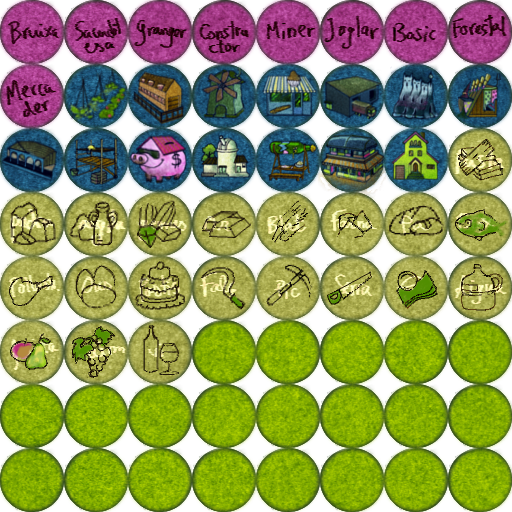
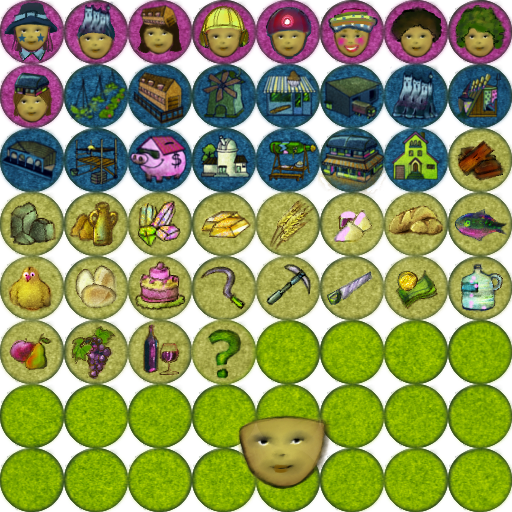
hud + nous pngs

diff --git a/Project/src/cat/atridas87/ld27/Renderer.java b/Project/src/cat/atridas87/ld27/Renderer.java
@@ -10,6 +10,7 @@ import javax.imageio.ImageIO;
 import org.lwjgl.BufferUtils;
 import org.lwjgl.opengl.GL11;
 import org.lwjgl.opengl.GL20;
+import org.newdawn.slick.Color;
 import org.newdawn.slick.Font;
 import org.newdawn.slick.TrueTypeFont;
 import org.newdawn.slick.opengl.Texture;
@@ -22,13 +23,10 @@ import static cat.atridas87.ld27.LD27.*;
 
 public class Renderer {
 
-	private Texture caselles, graella, recursos;
+	private Texture caselles, graella, recursos, hud;
 	private ShaderManager shaderManager;
 
-	private FloatBuffer casellaPositionBuffer, recursosPositionBuffer,
-			texCoordBuffer;
-	private FloatBuffer casellaSmallPositionBuffer,
-			recursosSmallPositionBuffer;
+	private FloatBuffer positionBuffer;
 
 	private Font font, fontTimer;
 
@@ -54,30 +52,23 @@ public class Renderer {
 
 		recursos = BufferedImageUtil.getTexture("recursos", bi);
 
+		url = ResourceLoader.getResource("resources/hud.png");
+		bi = ImageIO.read(url);
+
+		hud = BufferedImageUtil.getTexture("recursos", bi);
+
 		shaderManager = new ShaderManager();
 		shaderManager.setCurrentProgram(ShaderManager.ProgramType.TEXTURED);
 		shaderManager.setTexturePosition(0);
 
-		casellaPositionBuffer = BufferUtils.createFloatBuffer(4 * 2);
-		recursosPositionBuffer = BufferUtils.createFloatBuffer(4 * 2);
-		casellaSmallPositionBuffer = BufferUtils.createFloatBuffer(4 * 2);
-		recursosSmallPositionBuffer = BufferUtils.createFloatBuffer(4 * 2);
-		texCoordBuffer = BufferUtils.createFloatBuffer(4 * 2);
-		casellaPositionBuffer
-				.put(new float[] { 0, 0, 170, 0, 170, 170, 0, 170 });
-		texCoordBuffer.put(new float[] { 0, 1, 1, 1, 1, 0, 0, 0 });
-		recursosPositionBuffer.put(new float[] { 0, 0, 64, 0, 64, 64, 0, 64 });
-
-		casellaSmallPositionBuffer
-				.put(new float[] { 0, 0, 85, 0, 85, 85, 0, 85 });
-		recursosSmallPositionBuffer.put(new float[] { 0, 0, 32, 0, 32, 32, 0, 32 });
+		positionBuffer = BufferUtils.createFloatBuffer(4 * 2);
+		positionBuffer.put(new float[] { 0, 0, 1, 0, 1, 1, 0, 1 });
 
 		GL20.glEnableVertexAttribArray(ShaderManager.POSITION_ATTRIBUTE);
-		GL20.glEnableVertexAttribArray(ShaderManager.TEX_COORD_ATTRIBUTE);
 
-		texCoordBuffer.rewind();
-		GL20.glVertexAttribPointer(ShaderManager.TEX_COORD_ATTRIBUTE, 2, false,
-				0, texCoordBuffer);
+		positionBuffer.rewind();
+		GL20.glVertexAttribPointer(ShaderManager.POSITION_ATTRIBUTE, 2, false,
+				0, positionBuffer);
 	}
 
 	void render(int x, int y, int width, int height, TerrenyDeJoc terrenyDeJoc,
@@ -100,11 +91,6 @@ public class Renderer {
 		int ultimaCasellesX = (int) ((x + width) / TAMANY_CASELLA) + 1;
 		int ultimaCasellesY = (int) ((y + height) / TAMANY_CASELLA) + 1;
 
-		casellaPositionBuffer.rewind();
-		recursosPositionBuffer.rewind();
-		GL20.glVertexAttribPointer(ShaderManager.POSITION_ATTRIBUTE, 2, false,
-				0, casellaPositionBuffer);
-
 		for (int pass = 0; pass < 3; pass++) {
 			switch (pass) {
 			case 0:
@@ -120,8 +106,6 @@ public class Renderer {
 
 			case 2:
 				recursos.bind();
-				GL20.glVertexAttribPointer(ShaderManager.POSITION_ATTRIBUTE, 2,
-						false, 0, recursosPositionBuffer);
 
 				break;
 			}
@@ -146,7 +130,7 @@ public class Renderer {
 					int indexY;
 					switch (pass) {
 					case 0:
-						shaderManager.setPosition(cuadreX, cuadreY);
+						shaderManager.setPosition(cuadreX, cuadreY, 170, 170);
 						casella = terrenyDeJoc.caselles[i][j];
 						indexX = casella.type.spriteX;
 						indexY = casella.type.spriteY;
@@ -157,7 +141,7 @@ public class Renderer {
 						GL11.glDrawArrays(GL11.GL_QUADS, 0, 4);
 						break;
 					case 1:
-						shaderManager.setPosition(cuadreX, cuadreY);
+						shaderManager.setPosition(cuadreX, cuadreY, 170, 170);
 
 						GL11.glDrawArrays(GL11.GL_QUADS, 0, 4);
 						break;
@@ -193,7 +177,7 @@ public class Renderer {
 								float px = baseX + r * dt;
 								float py = baseY + r * dt;
 								shaderManager.setPosition(cuadreX + px, cuadreY
-										+ py);
+										+ py, 64, 64);
 
 								Recurs recurs = recursos.get(r);
 								indexX = recurs.spriteX;
@@ -217,7 +201,7 @@ public class Renderer {
 		}
 
 		if (recursTransportat != null) {
-			shaderManager.setPosition(recursX - 32, recursY - 32);
+			shaderManager.setPosition(recursX - 32, recursY - 32, 64, 64);
 			int indexX = recursTransportat.spriteX;
 			int indexY = recursTransportat.spriteY;
 			shaderManager.setTexcoords((indexX * 64) / 512.f,
@@ -236,91 +220,117 @@ public class Renderer {
 		GL11.glOrtho(0, w, h, 0, 1, -1);
 		GL11.glMatrixMode(GL11.GL_MODELVIEW);
 
-		renderGameInfo(terrenyDeJoc);
 
-		renderSelectedField(terrenyDeJoc);
+		for (int pass = 0; pass < 4; pass++) {
+			switch (pass) {
+			case 0:
+				caselles.bind();
+				break;
+			case 1:
+				hud.bind();
+				shaderManager.setPosition(0, 800-350, 300, 350);
+				shaderManager.setTexcoords(0, 0, 300.f/1024.f, 350.f/1024.f);
+				GL11.glDrawArrays(GL11.GL_QUADS, 0, 4);
+				break;
+			case 2:
+				recursos.bind();
+				break;
+			case 3:
+				GL20.glUseProgram(0);
+				break;
+			}
+
+			renderGameInfo(pass, terrenyDeJoc);
+
+			renderSelectedField(pass, terrenyDeJoc);
+		}
 	}
 
-	private void renderGameInfo(TerrenyDeJoc terrenyDeJoc) {
+	private void renderGameInfo(int pass, TerrenyDeJoc terrenyDeJoc) {
 
-		GL20.glUseProgram(0);
+		switch (pass) {
+		case 1:
+			
+			float completed = (float)terrenyDeJoc.pv / (float)POINTS_TO_WIN;
 
-		int partEntera = (int) Math.ceil(terrenyDeJoc.timer);
+			shaderManager.setPosition(20, 700, 148, 38);
+			shaderManager.setTexcoords(41/1024.f, 401/1024.f, 148.f/1024.f, 38.f/1024.f);
+			GL11.glDrawArrays(GL11.GL_QUADS, 0, 4);
 
-		fontTimer.drawString(
-				260 - fontTimer.getWidth(Integer.toString(partEntera)) / 2, 10,
-				Integer.toString(partEntera));
-
-		font.drawString(10, 10, "punts: " + terrenyDeJoc.pv + " / "
-				+ POINTS_TO_WIN);
-		font.drawString(10, 35, "ticks: " + terrenyDeJoc.ticks);
-
-	}
-
-	private void renderSelectedField(TerrenyDeJoc terrenyDeJoc) {
-		if (terrenyDeJoc.casellaSeleccionada != null) {
-			shaderManager.setCurrentProgram(ShaderManager.ProgramType.TEXTURED);
-
-			casellaSmallPositionBuffer.rewind();
-			recursosSmallPositionBuffer.rewind();
-			GL20.glVertexAttribPointer(ShaderManager.POSITION_ATTRIBUTE, 2, false,
-					0, casellaSmallPositionBuffer);
-
-			caselles.bind();
-
-			shaderManager.setPosition(25, 495);
-			int indexX = terrenyDeJoc.casellaSeleccionada.type.spriteX;
-			int indexY = terrenyDeJoc.casellaSeleccionada.type.spriteY;
-			shaderManager.setTexcoords((indexX * 170) / 1024.f,
-					(indexY * 170) / 1024.f, 170.f / 1024.f,
-					170.f / 1024.f);
-
+			shaderManager.setPosition(20, 700, 148 * completed, 38);
+			shaderManager.setTexcoords(41/1024.f, 452/1024.f, 148.f/1024.f * completed, 38.f/1024.f);
 			GL11.glDrawArrays(GL11.GL_QUADS, 0, 4);
 			
-			// -------------
-			
-			recursos.bind();
-			GL20.glVertexAttribPointer(ShaderManager.POSITION_ATTRIBUTE, 2, false,
-					0, recursosSmallPositionBuffer);
-			
-			for (int pass = 0; pass < 3; pass++) {
-				ArrayList<Recurs> recursos = null;
-				int y = 0;
-				switch(pass) {
-				case 0:
-					recursos = terrenyDeJoc.casellaSeleccionada.treballadors;
-					y = 571;
-					break;
-				case 1:
-					recursos = terrenyDeJoc.casellaSeleccionada.recursosEntrants;
-					y = 521;
-					break;
-				case 2:
-					recursos = terrenyDeJoc.casellaSeleccionada.recursosGenerats;
-					y = 471;
-					break;
-				}
+			break;
+		case 3:
+			int partEntera = (int) Math.ceil(terrenyDeJoc.timer);
 
-				float dx = 150.f / (recursos.size() + 1);
+			fontTimer.drawString(
+					245 - fontTimer.getWidth(Integer.toString(partEntera)) / 2,
+					60, Integer.toString(partEntera));
+
+			font.drawString(30, 25, terrenyDeJoc.pv + " / "
+					+ POINTS_TO_WIN, Color.black);
+			font.drawString(30, 130, Integer.toString( terrenyDeJoc.ticks ), Color.black);
+			break;
+		}
+	}
+
+	private void renderSelectedField(int pass, TerrenyDeJoc terrenyDeJoc) {
+		switch (pass) {
+		case 0:
+			if (terrenyDeJoc.casellaSeleccionada != null) {
 				
-				for(int r = 0; r < recursos.size(); r++) {
-					Recurs recurs = recursos.get(r);
-					int x = (int)(137.5f + dx * (r + 1) - 16);
+				int indexX = terrenyDeJoc.casellaSeleccionada.type.spriteX;
+				int indexY = terrenyDeJoc.casellaSeleccionada.type.spriteY;
+				shaderManager.setTexcoords((indexX * 170) / 1024.f,
+						(indexY * 170) / 1024.f, 170.f / 1024.f, 170.f / 1024.f);
 
-					shaderManager.setPosition(x, y);
-
-					indexX = recurs.spriteX;
-					indexY = recurs.spriteY;
-					shaderManager.setTexcoords(
-							(indexX * 64) / 512.f,
-							(indexY * 64) / 512.f, 64.f / 512.f,
-							64.f / 512.f);
-
-					GL11.glDrawArrays(GL11.GL_QUADS, 0, 4);
+			} else {
+				shaderManager.setTexcoords((Casella.Type.CAMP.spriteX * 170) / 1024.f,
+						(Casella.Type.CAMP.spriteY * 170) / 1024.f, 170.f / 1024.f, 170.f / 1024.f);
+			}
+			shaderManager.setPosition(25, 495, 85, 85);
+			GL11.glDrawArrays(GL11.GL_QUADS, 0, 4);
+			break;
+		case 2:
+			if (terrenyDeJoc.casellaSeleccionada != null) {
+				for (int linea = 0; linea < 3; linea++) {
+					ArrayList<Recurs> recursos = null;
+					int y = 0;
+					switch (linea) {
+					case 0:
+						recursos = terrenyDeJoc.casellaSeleccionada.treballadors;
+						y = 572;
+						break;
+					case 1:
+						recursos = terrenyDeJoc.casellaSeleccionada.recursosEntrants;
+						y = 522;
+						break;
+					case 2:
+						recursos = terrenyDeJoc.casellaSeleccionada.recursosGenerats;
+						y = 472;
+						break;
+					}
+	
+					float dx = 150.f / (recursos.size() + 1);
+	
+					for (int r = 0; r < recursos.size(); r++) {
+						Recurs recurs = recursos.get(r);
+						int x = (int) (137.5f + dx * (r + 1) - 16);
+	
+						shaderManager.setPosition(x, y, 32, 32);
+	
+						int indexX = recurs.spriteX;
+						int indexY = recurs.spriteY;
+						shaderManager.setTexcoords((indexX * 64) / 512.f,
+								(indexY * 64) / 512.f, 64.f / 512.f, 64.f / 512.f);
+	
+						GL11.glDrawArrays(GL11.GL_QUADS, 0, 4);
+					}
 				}
 			}
-			
-			//GL20.glUseProgram(0);
+			break;
 		}
 	}
 }

diff --git a/Project/src/cat/atridas87/ld26/render/ShaderManager.java b/Project/src/cat/atridas87/ld26/render/ShaderManager.java
@@ -66,7 +66,6 @@ public class ShaderManager {
 		
 
 		GL20.glBindAttribLocation(p.program, POSITION_ATTRIBUTE, "aPosition");
-		GL20.glBindAttribLocation(p.program, TEX_COORD_ATTRIBUTE, "aTexcoord");
 		
 		
 		GL20.glLinkProgram(p.program);
@@ -84,7 +83,7 @@ public class ShaderManager {
 		p.textureUniform = GL20.glGetUniformLocation(p.program, "uTexture");
 		p.screenSize     = GL20.glGetUniformLocation(p.program, "uScreenSize");
 		p.position       = GL20.glGetUniformLocation(p.program, "uPosition");
-		p.texcoord       = GL20.glGetUniformLocation(p.program, "uTexcoord");
+		p.texcoord       = GL20.glGetUniformLocation(p.program, "uTexCoord");
 		
 		return p;
 	}
@@ -106,9 +105,9 @@ public class ShaderManager {
 		GL20.glUniform2f(currentProgram.screenSize, width, height);
 	}
 	
-	public void setPosition(float x, float y)
+	public void setPosition(float x, float y, float w, float h)
 	{
-		GL20.glUniform2f(currentProgram.position, x, y);
+		GL20.glUniform4f(currentProgram.position, x, y, w, h);
 	}
 	
 	public void setTexcoords(float x, float y, float w, float h)
